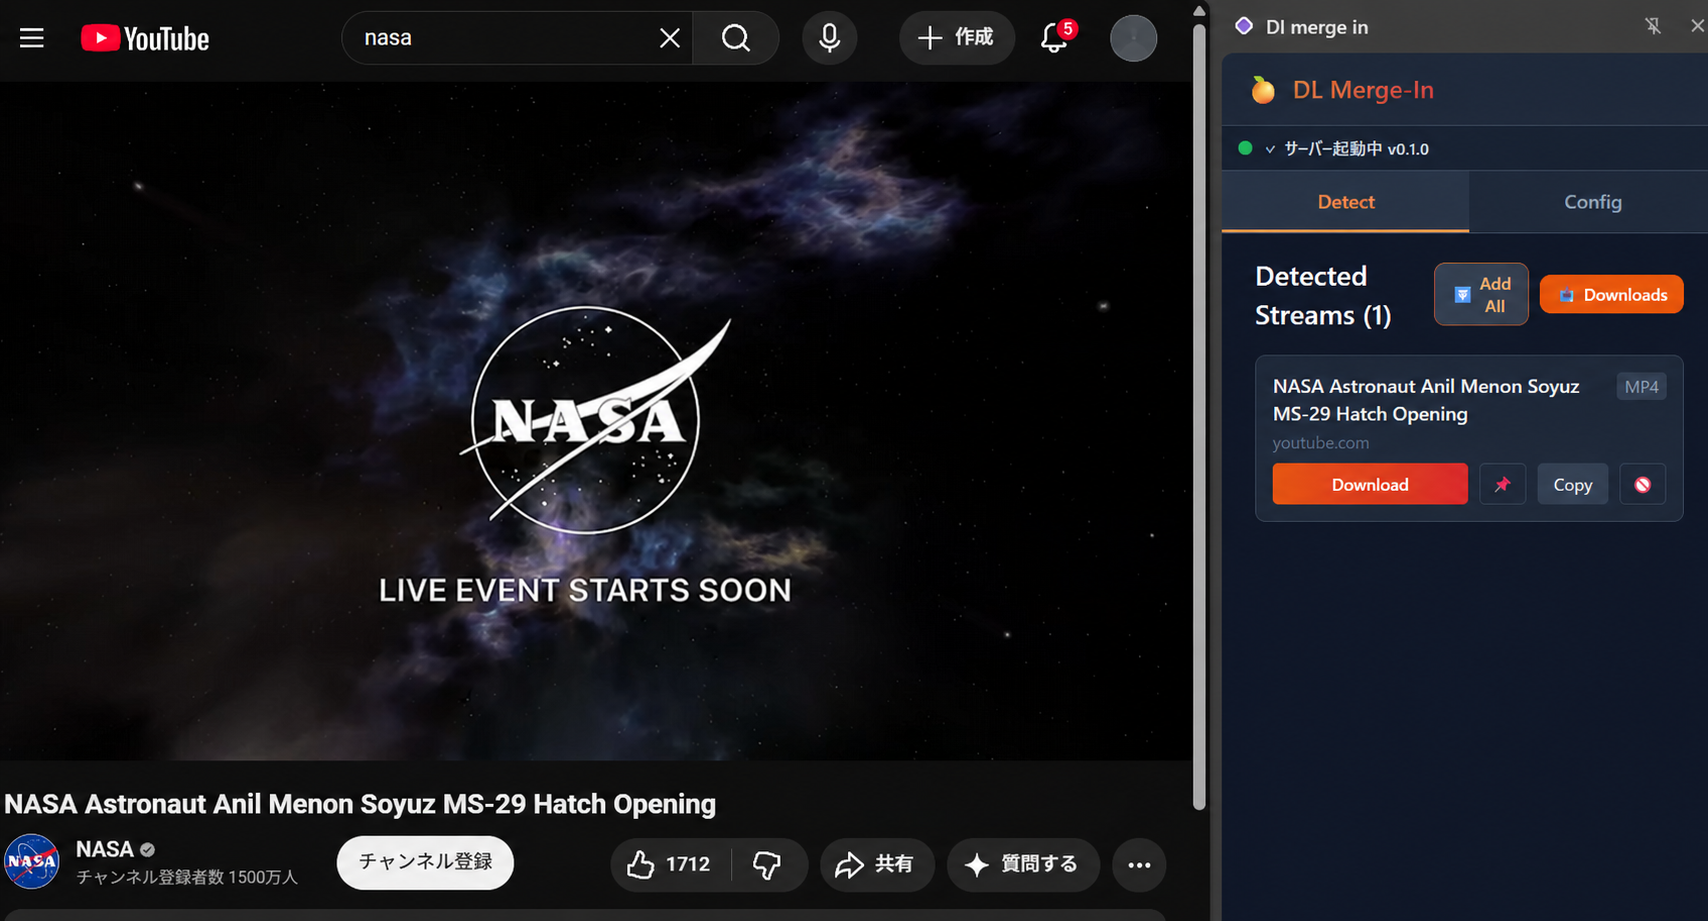
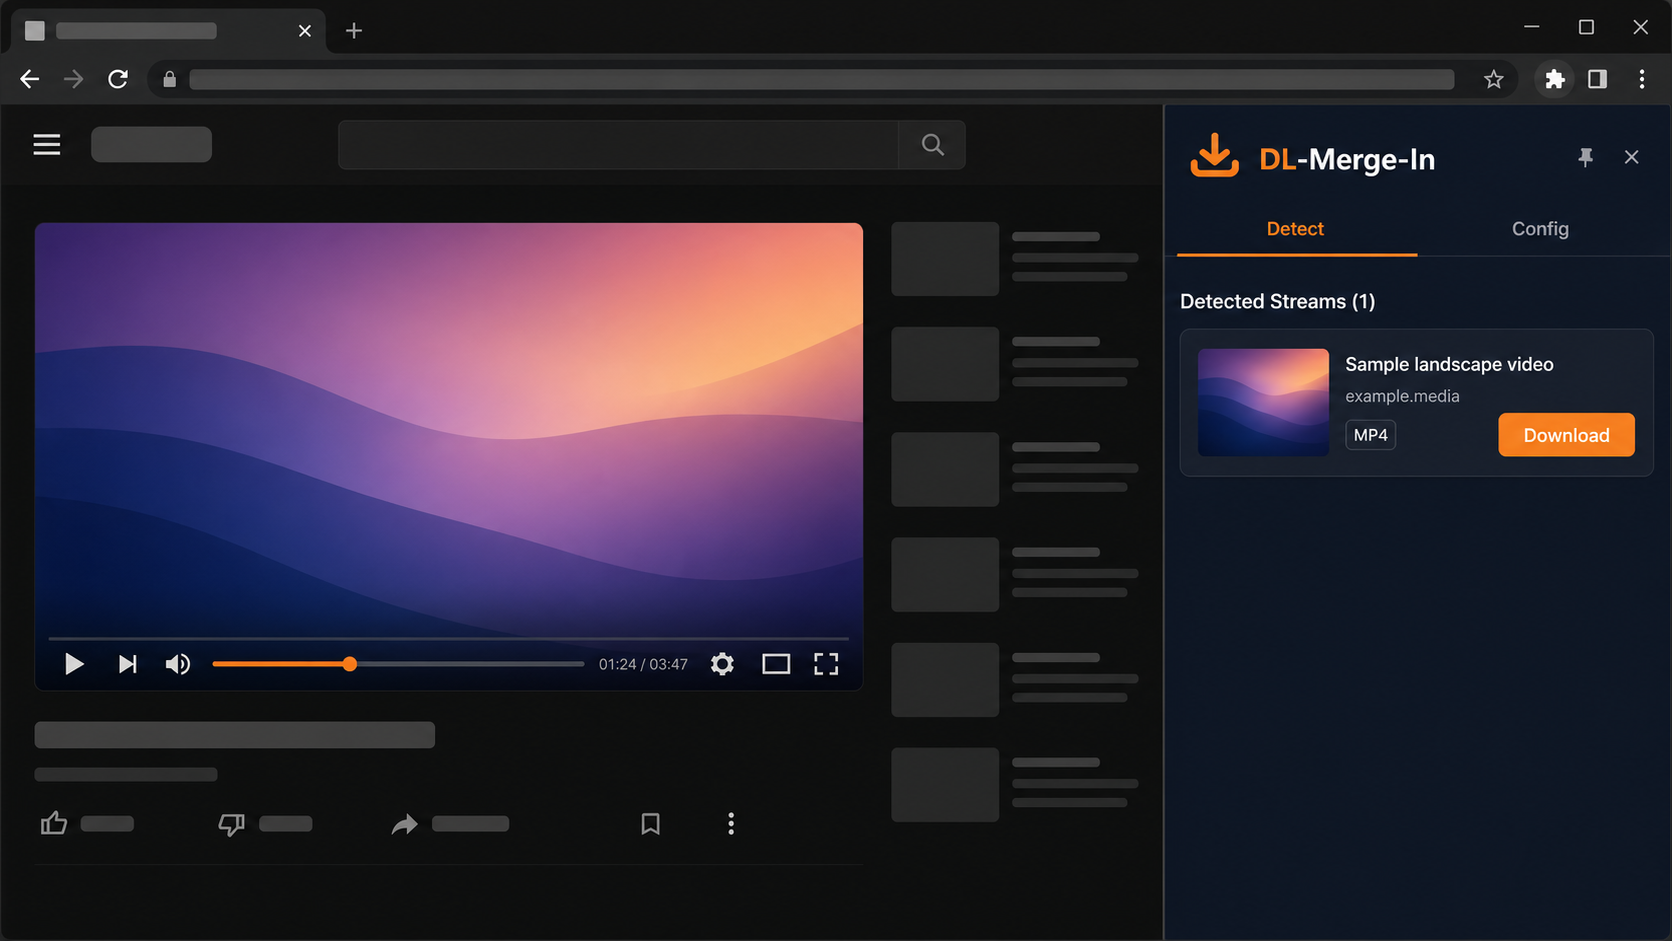
Add legal pages and neutralize service references

diff --git a/index.html b/index.html
@@ -99,7 +99,7 @@
         </div>
         <div class="screen-grid">
           <figure class="screen-card screen-wide reveal">
-            <img src="assets/screens/detected-streams-anonymized.png" alt="YouTubeのページ上でDL-Merge-Inが動画を検出している画面" />
+            <img src="assets/screens/detected-streams-anonymized.png" alt="中立な動画ページ上でDL-Merge-Inがメディアを検出している画面" />
             <figcaption><b>01 — 自動検出</b><span>ページを開くだけで、保存候補をサイドパネルに表示。</span></figcaption>
           </figure>
           <figure class="screen-card reveal">
@@ -111,7 +111,7 @@
             <figcaption><b>03 — キューを管理</b><span>複数のダウンロードも、進行を見ながら整理。</span></figcaption>
           </figure>
         </div>
-        <p class="privacy-note">掲載画面のアカウント表示は、プライバシーに配慮して匿名化しています。</p>
+        <p class="privacy-note">掲載画面は中立なモックです。実在サービスのロゴ、アカウント情報、動画名は掲載していません。</p>
       </section>
 
       <section class="workflow section" id="how-it-works">
@@ -128,7 +128,7 @@
         <div class="case-list">
           <article class="case reveal"><span class="case-icon">▣</span><div><h3>移動中に見返したい</h3><p>通信環境を気にせず、あとでゆっくり楽しみたいコンテンツに。</p></div><span class="case-arrow">↗</span></article>
           <article class="case reveal"><span class="case-icon">◒</span><div><h3>資料・学習コンテンツを手元に残したい</h3><p>必要な情報を、見たいときにすぐ参照できるように。</p></div><span class="case-arrow">↗</span></article>
-          <article class="case reveal"><span class="case-icon">♬</span><div><h3>動画・音声・字幕を整理したい</h3><p>動画と音声を選んで保存。YouTubeの字幕は別ファイルとして保存できます。</p></div><span class="case-arrow">↗</span></article>
+          <article class="case reveal"><span class="case-icon">♬</span><div><h3>動画・音声を整理したい</h3><p>動画と音声を選んで保存。対応状況は、対応サービスの例をご確認ください。</p></div><a class="case-arrow" href="supported-sites/" aria-label="対応サービスの例を見る">↗</a></article>
         </div>
       </section>
 
@@ -140,16 +140,16 @@
       <section class="faq section" id="faq"><div class="section-heading reveal"><p class="eyebrow"><span></span> FAQ</p><h2>よくある質問</h2></div><div class="faq-list reveal">
         <details><summary>利用に料金はかかりますか？ <span>+</span></summary><p>現行のデスクトップ版は無料でご利用いただけます。</p></details>
         <details><summary>どのブラウザに対応していますか？ <span>+</span></summary><p>Windows の Google Chrome を標準対応しています。インストール時に選択することで Microsoft Edge にも対応できます。</p></details>
-        <details><summary>どのサイトに対応していますか？ <span>+</span></summary><p>YouTube、ニコニコ、TVer、Abema、Twitch、Vimeo、TikTok、X、Instagramなど、主要22サイトを明示対応しています。さらに yt-dlp に対応する多数のサイトと、yt-dlp の対象外にも対応しうる独自の汎用検出で、保存候補を探します。</p></details>
+        <details><summary>どのサイトに対応していますか？ <span>+</span></summary><p>主要な動画・音声配信サービスを含む保存候補を、個別対応と汎用検出で探します。<a href="supported-sites/">対応サービスの例と注意事項</a>をご確認ください。</p></details>
         <details><summary>保存できないコンテンツはありますか？ <span>+</span></summary><p>DRM保護コンテンツは対象外です。サイトや配信方式によっては検出・保存できない場合があります。ご利用の際は各サービスの規約および著作権法を守ってください。</p></details>
-        <details><summary>字幕も保存できますか？ <span>+</span></summary><p>YouTubeの字幕を別ファイルとして保存できます。字幕機能はYouTubeに限られます。</p></details>
+        <details><summary>字幕も保存できますか？ <span>+</span></summary><p>字幕の対応状況を含む現在の機能範囲は、<a href="supported-sites/">対応サービスの例と注意事項</a>をご確認ください。</p></details>
       </div></section>
     </main>
     <div class="lightbox" id="image-lightbox" role="dialog" aria-modal="true" aria-label="画像の拡大表示" hidden>
       <button class="lightbox-close" type="button" aria-label="拡大表示を閉じる">×</button>
       <img class="lightbox-image" src="" alt="" />
     </div>
-    <footer><a class="brand" href="#top"><span class="brand-mark" aria-hidden="true"><i></i><i></i><i></i></span><span>DL-Merge-In</span></a><p>© 2026 DL-Merge-In</p><p class="footer-note">DRM保護コンテンツは対象外です。コンテンツの保存・利用は、各サービスの規約および適用される法令に従ってください。</p></footer>
+    <footer><a class="brand" href="#top"><span class="brand-mark" aria-hidden="true"><i></i><i></i><i></i></span><span>DL-Merge-In</span></a><p>© 2026 DL-Merge-In</p><p><a href="legal/">利用条件・免責・プライバシー</a></p><p class="footer-note">DRM保護コンテンツは対象外です。コンテンツの保存・利用は、各サービスの規約および適用される法令に従ってください。</p></footer>
     <script src="script.js"></script>
   </body>
 </html>

diff --git a/style.css b/style.css
@@ -5,6 +5,10 @@
 .download-hint{max-width:480px;margin:13px auto 0!important;color:#a4c1b1!important;font-size:10px!important}
 @media(max-width:800px){.site-header{height:64px;padding:0 20px}.site-header nav{display:none}.button-small{font-size:10px;padding:9px 11px}.hero{padding:46px 22px 54px;display:block;min-height:auto}.hero h1{font-size:43px}.hero-text{font-size:13px}.product-scene{margin:45px 0 0;height:348px;transform:scale(.88);transform-origin:top left;width:114%}.trust-strip{padding:17px 22px;display:block}.trust-strip div{margin-top:10px;gap:9px;font-size:8px}.section{padding:74px 22px}.feature-grid{grid-template-columns:1fr;margin-top:30px}.feature-card{min-height:280px}.workflow{display:block;padding-top:15px}.steps{margin-top:45px;grid-template-columns:1fr;gap:35px}.step-visual{height:135px}.use-cases{padding-top:74px}.case{grid-template-columns:37px 1fr 20px;padding:19px 0}.case h3{font-size:14px}.case p{font-size:10px}.download-section{min-height:430px;padding:55px 22px}.faq{padding-bottom:74px}footer{margin:0 22px;padding:25px 0;display:block}footer>p{margin:12px 0}.footer-note{line-height:1.6}.hero-actions{gap:18px}.button{padding:13px 16px;font-size:12px}.product-scene .browser-window{right:-28px}.panel-window{right:-2px}.chip-save{right:-16px}.chip-detect{left:-8px}}
 .button:hover{background:#963b18}.button-light:hover{background:#ffd08c}.glow-one{background:#ffdca8}.glow-two{background:#f7c4a1}.video-area{background:linear-gradient(130deg,#402a22 0%,#a94a2c 42%,#f5b46a 100%)}.feature-card{background:#fffdfa}.feature-large{background:#fff0df}.browser-mini{background:linear-gradient(135deg,#fff1df,#f7c894)}.saved-mini{background:#fff0df}.case:hover{background:#fff3e8}
+.info-header{border-bottom:1px solid var(--line)}.info-page{max-width:850px;padding-top:88px;padding-bottom:110px}.info-page h1{font-size:clamp(40px,5vw,62px);line-height:1.18;letter-spacing:-.06em;margin:0}.info-page h1 em{font-family:var(--serif);font-weight:400}.info-lead{color:var(--muted);font-size:13px;margin:23px 0 54px}.info-page section{border-top:1px solid var(--line);padding:31px 0}.info-page section:last-child{border-bottom:1px solid var(--line)}.info-page h2{font-size:22px;letter-spacing:-.04em;margin:0 0 13px}.info-page section p{color:var(--muted);font-size:13px;line-height:2;margin:8px 0}.info-page a,details p a,footer p a{color:var(--green);font-weight:700;text-decoration:underline;text-decoration-color:#bf4e2060;text-underline-offset:3px}.info-page a:hover,details p a:hover,footer p a:hover{color:#963b18}.info-header .text-link{margin-left:auto}.case a.case-arrow{display:block;text-decoration:none}
+body{overflow-x:hidden}
+@media(max-width:800px){.info-header{padding:0 22px}.info-header .text-link{font-size:10px;gap:7px}.info-page{padding-top:62px;padding-bottom:76px}.info-page h1{font-size:42px}.info-page section{padding:24px 0}.info-page h2{font-size:20px}}
+@media(max-width:800px){.site-header>.button-small{display:none}}
 .product-gallery{padding-top:20px}.screen-grid{display:grid;grid-template-columns:repeat(2,1fr);gap:18px;margin-top:48px}.screen-card{margin:0;border:1px solid var(--line);background:#fffdfa;overflow:hidden}.screen-wide{grid-column:1/-1}.screen-card img{display:block;width:100%;height:260px;object-fit:cover;object-position:top}.screen-wide img{height:auto;max-height:580px;object-fit:contain;background:#121b2d}.screen-card figcaption{padding:18px 20px 20px;display:grid;gap:4px}.screen-card figcaption b{font:600 11px 'DM Mono',monospace;color:var(--green);letter-spacing:.06em}.screen-card figcaption span{font-size:12px;color:var(--muted)}.privacy-note{margin:16px 0 0;color:#8b7c71;font-size:10px}.privacy-note:before{content:'●';color:var(--green);font-size:8px;margin-right:7px}@media(max-width:800px){.product-gallery{padding-top:0}.screen-grid{grid-template-columns:1fr;margin-top:30px;gap:14px}.screen-wide{grid-column:auto}.screen-card img{height:auto;max-height:none}.screen-wide img{max-height:none}.screen-card figcaption{padding:14px 15px 16px}.privacy-note{line-height:1.7}}
 .screenshot-visual{padding:0;background:#172238;border:1px solid var(--line);cursor:zoom-in}.screenshot-visual img{display:block;width:100%;height:100%;object-fit:cover;object-position:top}.screenshot-visual:focus-visible{outline:3px solid var(--lime);outline-offset:3px}.steps li:nth-child(2) .screenshot-visual img{object-position:right top}.steps li:nth-child(3) .screenshot-visual img{object-position:center top}.lightbox[hidden]{display:none}.lightbox{position:fixed;z-index:20;inset:0;display:grid;place-items:center;padding:28px;background:#211812e8;cursor:zoom-out}.lightbox-image{display:block;max-width:min(1200px,92vw);max-height:86vh;object-fit:contain;box-shadow:0 28px 80px #0008;cursor:default}.lightbox-close{position:fixed;top:18px;right:22px;width:42px;height:42px;border:1px solid #ffffff66;border-radius:50%;background:#ffffff1a;color:#fff;font-size:30px;line-height:1;cursor:pointer}.lightbox-close:hover,.lightbox-close:focus-visible{background:var(--green);outline:none}@media(max-width:800px){.lightbox{padding:16px}.lightbox-image{max-width:100%;max-height:82vh}.lightbox-close{top:12px;right:12px}}
 .accent-card{background:#a73f19}.accent-card .card-number{color:#ffe1bd}.accent-card>p:last-of-type{color:#fff4e9}.accent-card h3{color:#fff}

diff --git a/legal/index.html b/legal/index.html
@@ -1,0 +1,42 @@
+<!doctype html>
+<html lang="ja">
+  <head>
+    <meta charset="UTF-8" />
+    <meta name="viewport" content="width=device-width, initial-scale=1.0" />
+    <meta name="description" content="DL-Merge-Inの利用条件、免責事項、プライバシーに関する案内です。" />
+    <title>利用条件・免責・プライバシー | DL-Merge-In</title>
+    <link rel="stylesheet" href="../style.css" />
+  </head>
+  <body>
+    <header class="site-header info-header">
+      <a class="brand" href="../" aria-label="DL-Merge-In ホーム"><span class="brand-mark" aria-hidden="true"><i></i><i></i><i></i></span><span>DL-Merge-In</span></a>
+      <a class="text-link" href="../">紹介ページへ戻る <span>←</span></a>
+    </header>
+    <main class="info-page section">
+      <p class="eyebrow"><span></span> LEGAL</p>
+      <h1>利用条件・免責・<br /><em>プライバシー</em></h1>
+      <p class="info-lead">最終更新日：2026年7月26日</p>
+      <section>
+        <h2>利用条件</h2>
+        <p>DL-Merge-Inは、閲覧中のページで見つかったメディアの保存候補を表示するWindows向けツールです。保存・利用するコンテンツについて、必要な著作権その他の権利、許可、ライセンスを利用者自身が確認してください。</p>
+        <p>各サービスの利用規約、コンテンツ提供者の条件、著作権法その他の適用法令を守ってご利用ください。DRMなどの技術的保護手段で保護されたコンテンツは対象外であり、保護の回避を目的とした利用はサポートしません。</p>
+      </section>
+      <section>
+        <h2>免責事項</h2>
+        <p>対応可否、検出結果、画質、形式、保存結果、外部サービスの仕様および継続的な利用可能性は保証されません。外部サービスの変更等により、機能が利用できなくなる場合があります。</p>
+        <p>DL-Merge-Inは、第三者サービス、コンテンツ提供者、商標権者と提携・承認・推奨関係にあるものではありません。本サイトの記載は情報提供を目的とするもので、個別の法的助言ではありません。</p>
+      </section>
+      <section>
+        <h2>プライバシー</h2>
+        <p>本サイトは、独自のアクセス解析、広告、登録フォーム、問い合わせフォームを実装していません。訪問者の入力情報を本サイトで収集する仕組みはありません。</p>
+        <p>表示のためにGoogle Fontsを外部読込みしています。ブラウザはGoogleのサーバーへ接続する場合があります。また、本サイトはGitHub Pagesで配信されています。これらのサービスにおける情報の取扱いは、各事業者のポリシーをご確認ください。</p>
+        <p>この案内は本サイトに関するものです。DL-Merge-In本体および利用先の第三者サービスにおけるデータの取扱いについて、包括的な説明を行うものではありません。</p>
+      </section>
+      <section>
+        <h2>連絡先</h2>
+        <p>権利に関する連絡、削除要請、その他公開Issueに適さない連絡は、<a href="mailto:dlmergein@proton.me">dlmergein@proton.me</a> へお送りください。</p>
+      </section>
+    </main>
+    <footer><a class="brand" href="../"><span class="brand-mark" aria-hidden="true"><i></i><i></i><i></i></span><span>DL-Merge-In</span></a><p>© 2026 DL-Merge-In</p><p><a href="../supported-sites/">対応サービスの例</a></p></footer>
+  </body>
+</html>

diff --git a/supported-sites/index.html b/supported-sites/index.html
@@ -1,0 +1,37 @@
+<!doctype html>
+<html lang="ja">
+  <head>
+    <meta charset="UTF-8" />
+    <meta name="viewport" content="width=device-width, initial-scale=1.0" />
+    <meta name="description" content="DL-Merge-Inの対応サービスの例と、ご利用にあたっての注意事項です。" />
+    <title>対応サービスの例 | DL-Merge-In</title>
+    <link rel="stylesheet" href="../style.css" />
+  </head>
+  <body>
+    <header class="site-header info-header">
+      <a class="brand" href="../" aria-label="DL-Merge-In ホーム"><span class="brand-mark" aria-hidden="true"><i></i><i></i><i></i></span><span>DL-Merge-In</span></a>
+      <a class="text-link" href="../">紹介ページへ戻る <span>←</span></a>
+    </header>
+    <main class="info-page section">
+      <p class="eyebrow"><span></span> SERVICE EXAMPLES</p>
+      <h1>対応サービスの<br /><em>例と注意事項</em></h1>
+      <p class="info-lead">対応状況はページ構成、配信方式、地域、外部サービス側の変更によって変わります。</p>
+      <section>
+        <h2>対応サービスの例</h2>
+        <p>個別対応と汎用検出により、動画・音声の保存候補を探します。現在の例として、YouTube、ニコニコ、TVer、Abema、Twitch、Vimeo、TikTok、X、Instagramなどがあります。</p>
+        <p>yt-dlpに対応する多数のサービスに加え、対象外のページでも汎用検出が候補を見つける場合があります。一方で、すべてのページ、配信方式、コンテンツでの動作を保証するものではありません。</p>
+      </section>
+      <section>
+        <h2>機能上の補足</h2>
+        <p>画質・形式・コーデックの選択、動画と音声の結合、キュー管理、一時停止・再開、速度制限に対応しています。YouTubeの字幕は、利用可能な場合に別ファイルとして保存できます。</p>
+        <p>DRMで保護されたコンテンツは対象外です。保存できるかどうかは、対象ページの配信方式や権利設定によって異なります。</p>
+      </section>
+      <section>
+        <h2>商標・利用上の注意</h2>
+        <p>ここに挙げたサービス名は、対応状況を説明するための例示です。各名称および商標はそれぞれの権利者に帰属します。DL-Merge-Inは各サービスと提携・承認・推奨関係にあるものではありません。</p>
+        <p>コンテンツの保存・利用にあたっては、各サービスの利用規約、コンテンツ提供者の条件、適用法令を確認してください。詳しくは<a href="../legal/">利用条件・免責・プライバシー</a>をご確認ください。</p>
+      </section>
+    </main>
+    <footer><a class="brand" href="../"><span class="brand-mark" aria-hidden="true"><i></i><i></i><i></i></span><span>DL-Merge-In</span></a><p>© 2026 DL-Merge-In</p><p><a href="../legal/">利用条件・免責・プライバシー</a></p></footer>
+  </body>
+</html>

diff --git a/README.md b/README.md
@@ -17,6 +17,8 @@
 ├─ script.js           # 小さな画面効果
 ├─ assets/             # OGP画像と匿名化済みの画面画像
 ├─ guide/index.html    # ブラウザ拡張の手動読み込みを含むセットアップガイド
+├─ legal/index.html    # 利用条件・免責・プライバシー
+├─ supported-sites/    # 対応サービスの例と注意事項
 └─ CNAME               # GitHub Pagesの独自ドメイン設定
 ```
 
@@ -28,6 +30,8 @@
 4. GitHub Pagesのビルド完了後、公開サイトで表示、リンク、画像を確認します。
 
 `CNAME` には `www.dlmergein.com` が設定されています。独自ドメインの接続を維持するため、通常のLP更新ではこのファイルを削除・変更しないでください。
+
+対応サービス名は、LPの主画面ではなく `supported-sites/` に平文で掲載します。第三者サービスのロゴ、UI、アカウント情報、動画タイトルを画像に含めず、画面画像は中立なモックとして作成・確認してください。
 
 ### ローカル確認
 
@@ -51,6 +55,10 @@ py -m http.server 8000
 ## 配布との関係
 
 Windows向けインストーラーとSHA-256は、このリポジトリではなく [DL-Merge-In Releases](https://github.com/dl-merge-in/DL-Merge-In/releases) に公開します。リリースを公開したら、LPのダウンロード導線を該当するRelease URLへ更新してください。
+
+## 法的な案内
+
+[利用条件・免責・プライバシー](https://www.dlmergein.com/legal/) と [対応サービスの例](https://www.dlmergein.com/supported-sites/) は、LPの公開内容と矛盾しないよう同時に更新してください。前者には権利・規約・DRM・プライバシーの案内、後者には平文のサービス例と非提携表記を置きます。
 
 ## 問い合わせ・外部貢献
 
